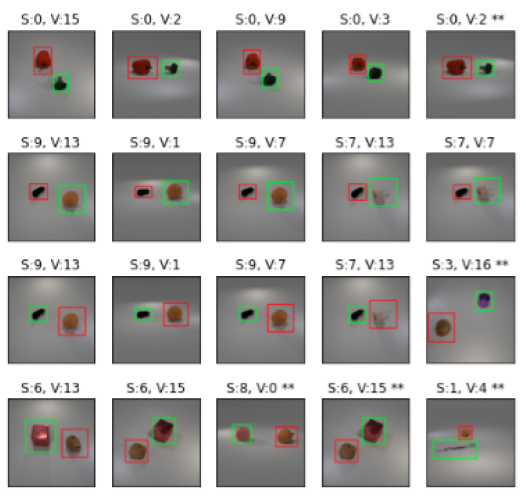
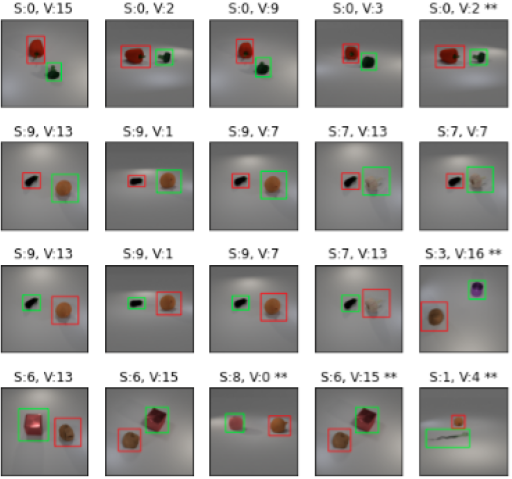
Updated research experience

diff --git a/index.html b/index.html
@@ -141,9 +141,15 @@
                         <br>
                         January 2023 - Present
                         <br>
-                        <p align="justify">Worked with the Palette AI Research (PAIR) team at 
-                          <a href="https://advertising.amazon.com" target="_blank">Amazon Advertising</a> on building machine learning models that can automatically
-                          create high-quality and high-performance video advertisements.</p>
+                        <br>
+                        <p align="justify">
+                        Currently working with <a href="https://yip.eng.ucsd.edu/"> Prof. Michael Yip </a> on robotics manipulation of deformable objects
+                        using 3D vision-based forward and invese dynamics for goal conditioned manipulation with appliction in surgical robotics. Also, worked 
+                        on building SE(3) equivariant and deformation invariant neural representations for tasks such as grasping, manipulating, or 
+                        interacting with deformable objects
+                        </p>
+                        <br> 
+                        <br>
                     </td>
                 </tr>
 
@@ -158,9 +164,10 @@
                       <br>
                       April 2021 - December 2021
                       <br>
-                      <p align="justify">Worked with the Palette AI Research (PAIR) team at 
-                        <a href="https://advertising.amazon.com" target="_blank">Amazon Advertising</a> on building machine learning models that can automatically
-                        create high-quality and high-performance video advertisements.</p>
+                      <p align="justify">
+                        Worked with <a href="https://www.iiit.ac.in/people/faculty/mkrishna/"> Prof. Madhava Krishna </a> developing pipeline for online incremental localization and mapping (SLAM) for indoor 3D scenes using implicit 
+                        representation formulated by neural radiance fields (NeRF) and finding relative pose between NeRF submaps 
+                      </p>
                   </td>
                 </tr>
               </tbody>

diff --git a/stylesheet.css b/stylesheet.css
@@ -106,7 +106,7 @@ name {
 }
 
 .one {
-  width: 180px;
+  width: 150px;
   height: 150px;
   position: relative;
 }
